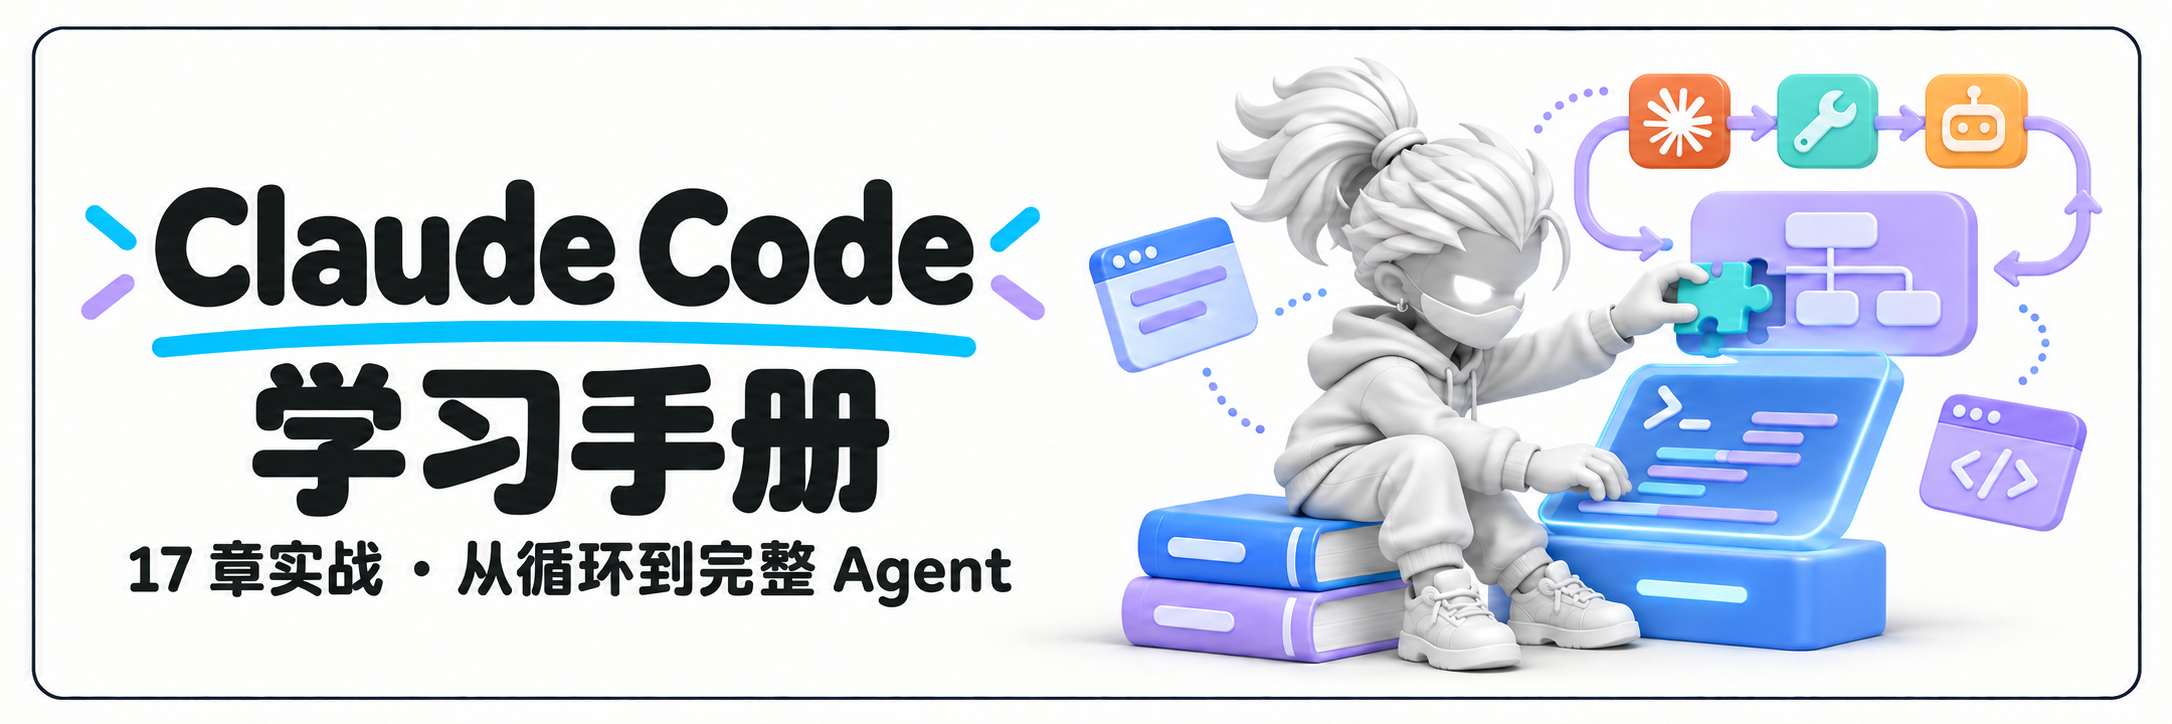
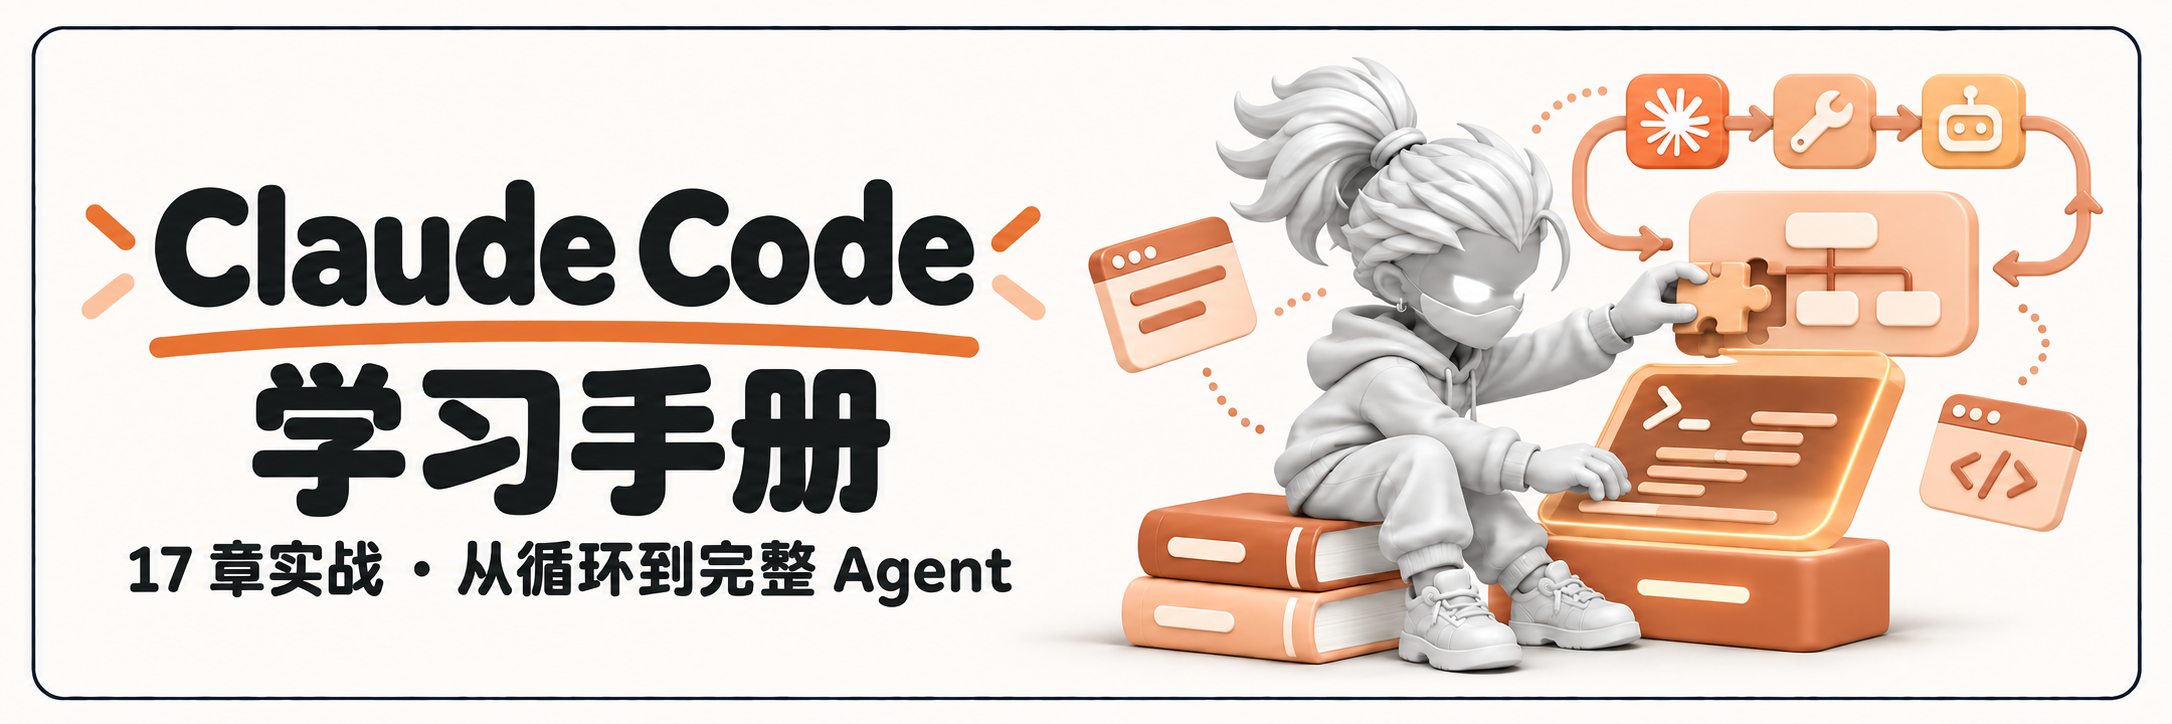
style: use orange theme for handbook cover

diff --git a/README.md b/README.md
@@ -1,4 +1,4 @@
-![Claude Code 学习手册：17 章实战，从循环到完整 Agent](docs/assets/cover.png)
+![Claude Code 学习手册：17 章实战，从循环到完整 Agent](docs/assets/cover.png?v=39d053b1be45)
 
 # Claude Code 学习手册
 
